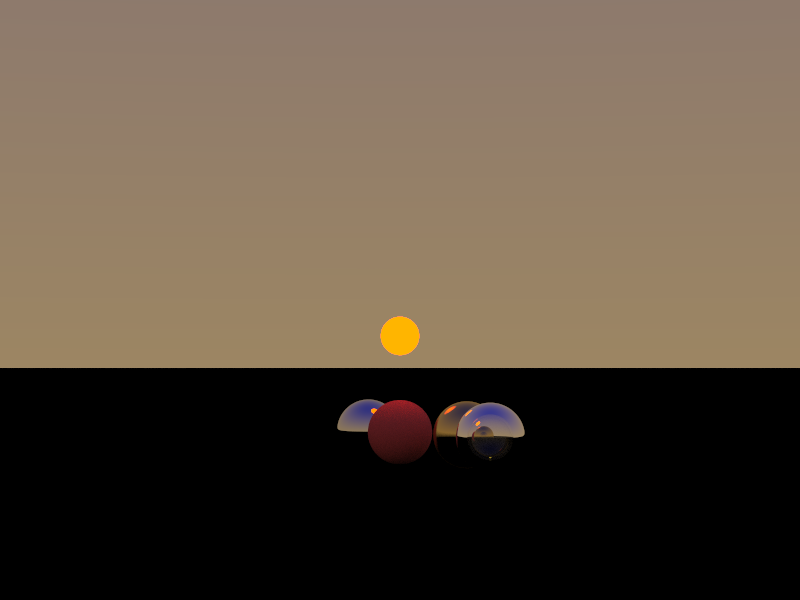
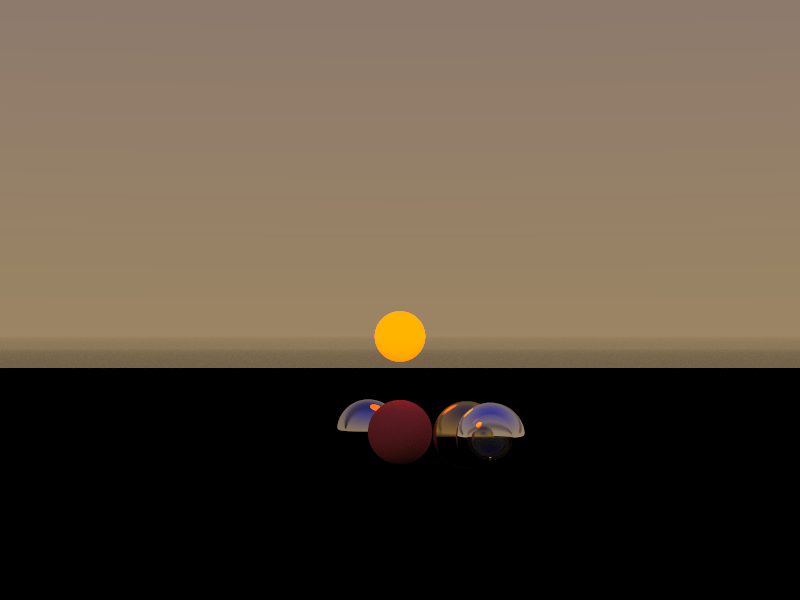
Add Particles section to README; update sunset pic to include haze

Changed region(s): [[0.0, 0.51, 1.0, 0.63], [0.5625, 0.66, 0.6562, 0.72], [0.4375, 0.66, 0.5312, 0.69]]

diff --git a/src/examples/demo/sunset.rs b/src/examples/demo/sunset.rs
@@ -89,8 +89,8 @@ pub fn make_world() -> HittableList {
     let haze_color = Color::new(0., 0., 0.);
     let haze = Arc::new(ConstantMedium::new(
         cylinder.clone(),
-        density,
         haze_color.clone(),
+        density,
     ));
 
     let Cylinder { tube, top, bottom } = Cylinder::new(
@@ -110,8 +110,8 @@ pub fn make_world() -> HittableList {
     let density = 0.5;
     let inner_haze = Arc::new(ConstantMedium::new(
         inner_cylinder.clone(),
-        density,
         haze_color,
+        density,
     ));
 
     let mut world = HittableList::new();

diff --git a/src/hittables/volumes.rs b/src/hittables/volumes.rs
@@ -18,7 +18,7 @@ pub struct ConstantMedium {
 }
 
 impl ConstantMedium {
-    pub fn new(boundary: Arc<dyn Hittable>, density: f64, color: Color) -> Self {
+    pub fn new(boundary: Arc<dyn Hittable>, color: Color, density: f64) -> Self {
         Self {
             boundary,
             negative_inverse_density: -1.0 / density,

diff --git a/README.md b/README.md
@@ -18,6 +18,7 @@
     - [Tube](#tube)
     - [Cylinder](#cylinder)
   - [Materials](#materials)
+  - [Particles](#particles)
   - [Image quality parameters](#image-quality-parameters)
   - [Converting images to PNG, JPG, etc.](#convert-images-to-png-jpg,-etc.)
   - [vec3](#vec3)
@@ -346,6 +347,22 @@ There are four materials, represented by the `Material` trait.
 `Dielectric` is for clear materials like glass or water. Light rays are both reflected and refracted (bent as they enter the material). The refractive index is relative. Thus set it to 1.5 for a glass object in air, and 1/1.5 for an air bubble embedded in glass. Water in air is 1.33. Other values are easily looked up.
 
 `Light` is for light-emiting materials. The components of the `Color` passed to `Light::new` should be greater than 1.0. In their [example](https://raytracing.github.io/books/RayTracingTheNextWeek.html#lights/turningobjectsintolights) in _Ray Tracing: The Next Week_, Shirley et al. set them all to 4.0. They say, "This allows it to be bright enough to light things."
+
+### Particles
+
+At present, the library provides just one sort of diffuse/particulate object, `hittables::volumes::ComstantMedium`. (Such objects are sometimes called "volumes" or "participating media".) It's defined by shape, color, and density.
+
+```rust
+let density = 0.3;
+let smoke_color = Color::new(0., 0., 0.);
+let smoke = Arc::new(ConstantMedium::new(
+    sphere,
+    smoke_color,
+    density,
+));
+```
+
+Internally, it makes itself consist of a `Material` called `Isotropic`.
 
 ### Image quality parameters
 
